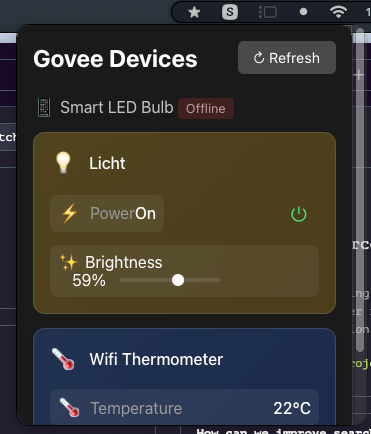
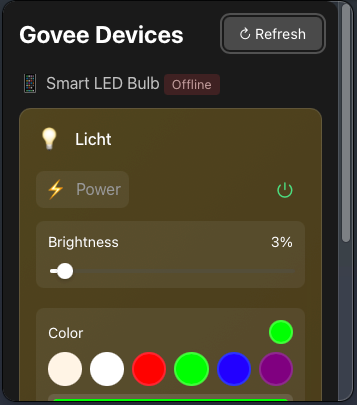
update readme

diff --git a/README.md b/README.md
@@ -8,7 +8,7 @@ A macOS menubar application to control your Govee smart devices. Built with Taur
 
 - 🔌 Control Govee devices directly from your menubar
 - 💡 Toggle lights on/off
-- ✨ Adjust brightness
+- ✨ Adjust brightness and color
 - 🌡 Monitor temperature and humidity sensors
 - 🔄 Auto-refresh device states
 - 🚀 Fast and lightweight app
